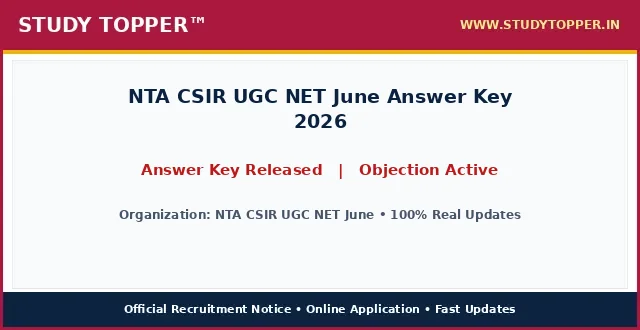
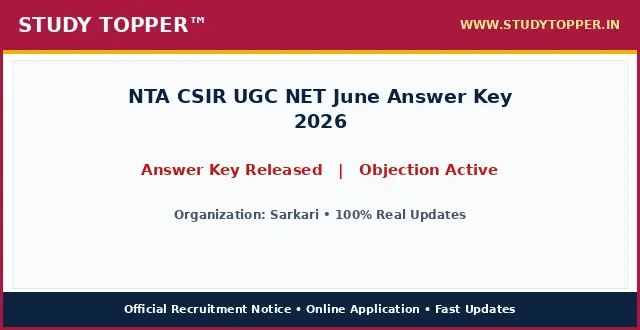
chore(lifecycle): daily auto-sort vacancies and update active dates

Changed region(s): [[0.1875, 0.6364, 0.8125, 0.6667]]

diff --git a/pages/nta-csir-ugc-net-june-2026.html b/pages/nta-csir-ugc-net-june-2026.html
@@ -987,12 +987,12 @@ ul.wp-block-latest-posts a:hover {
 <main class="site-main" id="main">
 <div class="gb-container gb-container-b39c368c">
 <h1 class="gb-headline gb-headline-e52a0102 gb-headline-text" style="font-size: 22px; font-weight: 700; color: #0000cd; text-align: left; margin: 8px 0 4px 0; line-height: 1.3; width: 100%; font-family: '-apple-system, BlinkMacSystemFont, 'Segoe UI', Roboto, 'Helvetica Neue', Arial, sans-serif', Times, serif, Hind, sans-serif;">NTA CSIR UGC NET June Answer Key 2026</h1>
-<div class="gb-container gb-container-659bd175"><p style="color: #cd0808; font-weight: 700; font-size: 15px; margin: 2px 0 7px 0; text-align: left; font-family: '-apple-system, BlinkMacSystemFont, 'Segoe UI', Roboto, 'Helvetica Neue', Arial, sans-serif', Times, serif, Hind, sans-serif;">Post Date: August 21, 2026 07:49 PM</p></div>
-<p class="gb-headline gb-headline-550ae316 short_Details gb-headline-text" style="width: 100%; max-width: 100%; font-size: 16.8px; line-height: 1.55; color: #000000; text-align: justify; text-justify: inter-word; margin: 8px 0 14px 0; display: block; font-family: '-apple-system, BlinkMacSystemFont, 'Segoe UI', Roboto, 'Helvetica Neue', Arial, sans-serif', Times, serif, Hind, sans-serif;"><strong style="color: #0000cd;">NTA CSIR UGC NET June</strong> has officially published the provisional and final <strong style="color: #cd0808;">NTA CSIR UGC NET June Answer Key 2026</strong> along with master question paper booklets. Examinees who appeared in the examination can verify their recorded responses against the official key solutions. The board has activated an online objection window allowing candidates to submit challenges with authentic documentary proof within the deadline. Review question series carefully and compute estimated test scores using the official marking scheme.</p>
+<div class="gb-container gb-container-659bd175"><p style="color: #cd0808; font-weight: 700; font-size: 15px; margin: 2px 0 7px 0; text-align: left; font-family: '-apple-system, BlinkMacSystemFont, 'Segoe UI', Roboto, 'Helvetica Neue', Arial, sans-serif', Times, serif, Hind, sans-serif;">Post Date: August 22, 2026 11:53 AM</p></div>
+<p class="gb-headline gb-headline-550ae316 short_Details gb-headline-text" style="width: 100%; max-width: 100%; font-size: 16.8px; line-height: 1.55; color: #000000; text-align: justify; text-justify: inter-word; margin: 8px 0 14px 0; display: block; font-family: '-apple-system, BlinkMacSystemFont, 'Segoe UI', Roboto, 'Helvetica Neue', Arial, sans-serif', Times, serif, Hind, sans-serif;"><strong style="color: #0000cd;">Sarkari</strong> has officially published the provisional and final <strong style="color: #cd0808;">NTA CSIR UGC NET June Answer Key 2026</strong> along with master question paper booklets. Examinees who appeared in the examination can verify their recorded responses against the official key solutions. The board has activated an online objection window allowing candidates to submit challenges with authentic documentary proof within the deadline. Review question series carefully and compute estimated test scores using the official marking scheme.</p>
 <div class="gb-container gb-container-9849916c"><div class="social-buttons-compact" style="display: flex; justify-content: flex-start; align-items: center; gap: 10px; margin: 10px 0 16px 0; width: 100%;"><a class="social-btn-compact wa" href="https://whatsapp.com/channel/0029Va9xyz" rel="noopener" style="background-color: #00d084; color: #ffffff; padding: 10px 18px; border-radius: 4px; text-decoration: none; font-weight: bold; font-size: 15.5px; display: inline-flex; align-items: center; justify-content: center; height: auto;" target="_blank">WhatsApp</a><a class="social-btn-compact tg" href="https://t.me/studytopperofficial" rel="noopener" style="background-color: #0088cc; color: #ffffff; padding: 10px 18px; border-radius: 4px; text-decoration: none; font-weight: bold; font-size: 15.5px; display: inline-flex; align-items: center; justify-content: center; height: auto;" target="_blank">Telegram</a></div></div>
 <div class="gb-container gb-container-f58e6ca1" style="border: 2px solid #5b032f; border-radius: 4px; overflow: hidden; margin: 15px 0 20px 0; background-color: #ffffff; width: 100%; box-sizing: border-box;">
 <h2 class="gb-headline gb-headline-2ca5a791 gb-headline-text" style="font-size: 16px; font-weight: 700; text-align: center; color: #ef0303; line-height: 1.3; padding: 6px 4px; margin: 0; background: #ffffff; font-family: '-apple-system, BlinkMacSystemFont, 'Segoe UI', Roboto, 'Helvetica Neue', Arial, sans-serif', Times, serif, Hind, sans-serif;">NTA CSIR UGC NET June Answer Key 2026 &ndash; Latest Details &amp; Updates</h2>
-<h3 class="gb-headline gb-headline-7d5f86e8 gb-headline-text" style="font-size: 16px; font-weight: 600; text-align: center; color: #009703; line-height: 1.25; margin: 0; padding: 2px 4px 6px 4px; background: #ffffff; font-family: '-apple-system, BlinkMacSystemFont, 'Segoe UI', Roboto, 'Helvetica Neue', Arial, sans-serif', Times, serif, Hind, sans-serif;">NTA CSIR UGC NET June : Details &amp; Summary</h3>
+<h3 class="gb-headline gb-headline-7d5f86e8 gb-headline-text" style="font-size: 16px; font-weight: 600; text-align: center; color: #009703; line-height: 1.25; margin: 0; padding: 2px 4px 6px 4px; background: #ffffff; font-family: '-apple-system, BlinkMacSystemFont, 'Segoe UI', Roboto, 'Helvetica Neue', Arial, sans-serif', Times, serif, Hind, sans-serif;">Sarkari : Details &amp; Summary</h3>
 <p class="gb-headline gb-headline-79adf169 gb-headline-text" style="margin: 0 0 6px 0; font-family: '-apple-system, BlinkMacSystemFont, 'Segoe UI', Roboto, 'Helvetica Neue', Arial, sans-serif', Times, serif, Hind, sans-serif; text-align: center; font-size: 18px; font-weight: 700;"><a href="/" style="color: #0000ff; text-decoration: underline;">StudyTopper.in</a></p>
 
 <style id="st-post-boxes-responsive-css">
@@ -1025,7 +1025,7 @@ ul.wp-block-latest-posts a:hover {
     <div style="background-color: #5b032f; color: #ffffff; padding: 8px 10px; font-size: 20px; font-weight: 700; text-align: center; font-family: '-apple-system, BlinkMacSystemFont, 'Segoe UI', Roboto, 'Helvetica Neue', Arial, sans-serif', Times, serif, Hind, sans-serif;">Answer Key &amp; Objection Dates</div>
     <div style="padding: 12px 14px; background-color: #ffffff;">
       <ul style="padding-left: 20px; margin: 0; list-style-type: disc; text-align: left; font-size: 14pt; line-height: 1.6; font-family: '-apple-system, BlinkMacSystemFont, 'Segoe UI', Roboto, 'Helvetica Neue', Arial, sans-serif', Times, serif, Hind, sans-serif;">
-        <li><span style="font-size: 14pt;">Apply Online start Date : <strong>27 May 2026</strong></span></li><li><span style="font-size: 14pt;">Apply Online Last Date : <span style="color: #ff0000;"><strong>19 June 2026</strong></span></span></li><li><span style="font-size: 14pt;">Pay Exam Fees Last Date : <span style="color: #ff0000;"><strong>20 June 2026</strong></span></span></li><li><span style="font-size: 14pt;">Correction Date : <strong>22 – 23 June 2025</strong></span></li><li><span style="font-size: 14pt;">Exam Date : <strong>17 – 18 July 2026</strong></span></li><li><span style="font-size: 14pt;">Admit Card Available : <strong>13 July 2026</strong></span></li>
+        
       </ul>
     </div>
   </div>
@@ -1034,7 +1034,7 @@ ul.wp-block-latest-posts a:hover {
     <div style="background-color: #5b032f; color: #ffffff; padding: 8px 10px; font-size: 20px; font-weight: 700; text-align: center; font-family: '-apple-system, BlinkMacSystemFont, 'Segoe UI', Roboto, 'Helvetica Neue', Arial, sans-serif', Times, serif, Hind, sans-serif;">Objection / Challenge Fee</div>
     <div style="padding: 12px 14px; background-color: #ffffff;">
       <ul style="padding-left: 20px; margin: 0; list-style-type: disc; text-align: left; font-size: 14pt; line-height: 1.6; font-family: '-apple-system, BlinkMacSystemFont, 'Segoe UI', Roboto, 'Helvetica Neue', Arial, sans-serif', Times, serif, Hind, sans-serif;">
-        <li><span style="font-size: 14pt;">For General : <strong>₹ 1150/-</strong></span></li><li><span style="font-size: 14pt;">For OBC, EWS : <strong>₹ 600/-</strong></span></li><li><span style="font-size: 14pt;">For SC/ ST/PH : <strong>₹ 325/-</strong></span></li>
+        <li><span style="font-size: 14pt;">Bihar Police BPSSC Sub Inspector SI Prohibition Result 2026 Advt. No. : <strong>03/2026</strong></span></li><li><span style="font-size: 14pt;">UP Scholarship Online Form 2026 : <strong>2027</strong></span></li>
       </ul>
       <div style="margin-top: 10px; font-size: 14pt; line-height: 1.5; color: #000000; border-top: 1px dashed #ccc; padding-top: 8px; font-family: '-apple-system, BlinkMacSystemFont, 'Segoe UI', Roboto, 'Helvetica Neue', Arial, sans-serif', Times, serif, Hind, sans-serif;">
         <strong>Mode of Payment / Access:</strong> Online via Net Banking, Debit Card, Credit Card, UPI or Free Candidate Portal.
@@ -1047,10 +1047,10 @@ ul.wp-block-latest-posts a:hover {
 <div class="st-grid-row" style="display: flex; flex-wrap: wrap; width: 100%; border-top: 2px solid #5b032f; margin: 0; padding: 0; box-sizing: border-box;">
   <!-- Left Col: Age Limits -->
   <div class="st-col-half st-col-border-right" style="box-sizing: border-box; vertical-align: top;">
-    <div style="background-color: #046132; color: #ffffff; padding: 8px 10px; font-size: 17px; font-weight: 700; text-align: center; font-family: '-apple-system, BlinkMacSystemFont, 'Segoe UI', Roboto, 'Helvetica Neue', Arial, sans-serif', Times, serif, Hind, sans-serif;">NTA CSIR UGC NET June : Age Limits As On 01 August 2026</div>
+    <div style="background-color: #046132; color: #ffffff; padding: 8px 10px; font-size: 17px; font-weight: 700; text-align: center; font-family: '-apple-system, BlinkMacSystemFont, 'Segoe UI', Roboto, 'Helvetica Neue', Arial, sans-serif', Times, serif, Hind, sans-serif;">Sarkari : Age Limits As On 01 August 2026</div>
     <div style="padding: 12px 14px; background-color: #ffffff;">
       <ul style="padding-left: 20px; margin: 0; list-style-type: disc; text-align: left; font-size: 14pt; line-height: 1.6; font-family: '-apple-system, BlinkMacSystemFont, 'Segoe UI', Roboto, 'Helvetica Neue', Arial, sans-serif', Times, serif, Hind, sans-serif;">
-        <li><span style="font-size: 14pt;">Minimum Age : <strong>18 Years</strong></span></li><li><span style="font-size: 14pt;">Maximum Age : <strong>40 Years</strong></span></li><li><span style="font-size: 14pt;">Age Calculated As On : <strong>01 August 2026</strong></span></li><li><span style="font-size: 14pt;">Age Relaxation : <strong>Extra as per official recruitment rules</strong></span></li>
+        
       </ul>
     </div>
   </div>
@@ -1058,7 +1058,7 @@ ul.wp-block-latest-posts a:hover {
   <div class="st-col-half" style="box-sizing: border-box; vertical-align: top;">
     <div style="background-color: #f53c00; color: #ffffff; padding: 8px 10px; font-size: 20px; font-weight: 700; text-align: center; font-family: '-apple-system, BlinkMacSystemFont, 'Segoe UI', Roboto, 'Helvetica Neue', Arial, sans-serif', Times, serif, Hind, sans-serif;">Answer Key Status</div>
     <div style="padding: 24px 10px; background-color: #ffffff; text-align: center;">
-      <span style="font-size: 28px; font-weight: 800; color: #000000; font-family: '-apple-system, BlinkMacSystemFont, 'Segoe UI', Roboto, 'Helvetica Neue', Arial, sans-serif', Times, serif, Hind, sans-serif;">2482 Posts</span>
+      <span style="font-size: 28px; font-weight: 800; color: #000000; font-family: '-apple-system, BlinkMacSystemFont, 'Segoe UI', Roboto, 'Helvetica Neue', Arial, sans-serif', Times, serif, Hind, sans-serif;">545 Post</span>
     </div>
   </div>
 </div>
@@ -1070,19 +1070,7 @@ ul.wp-block-latest-posts a:hover {
 <div class="gb-container gb-container-ec1f6e4c">
 <h2 class="gb-headline gb-headline-c7683bda gb-headline-text" style="font-size: 24px; font-weight: 800; text-align: center; color: #ef0303; line-height: 1.35; margin: 20px 0 12px 0; padding: 6px 4px; font-family: '-apple-system, BlinkMacSystemFont, 'Segoe UI', Roboto, 'Helvetica Neue', Arial, sans-serif', Times, serif, Hind, sans-serif;">NTA CSIR UGC NET June Answer Key 2026 : Key Overview &amp; Matrix</h2>
 <div class="gb-headline gb-headline-60ccea19 gb-headline-text">
-<table style="border-collapse: collapse; width: 100%; height: 150px;">
-<tbody>
-<tr style="height: 25px;">
-<td colspan="2" style="width: 50%; text-align: center; height: 25px;"><span style="background-color: #000080; color: #ffffff; font-size: 14pt;"><strong> NTA CSIR UGC NET June : Answer Key &amp; Objection Window Details </strong></span></td>
-</tr>
-<tr style="height: 25px;">
-<td style="width: 50%; height: 25px; text-align: center;"><span style="font-size: 14pt;"><strong>Category / Particulars</strong></span></td>
-<td style="width: 50%; height: 25px; text-align: center;"><span style="font-size: 14pt;"><strong>Count / Status</strong></span></td>
-</tr>
-<tr><td style="text-align: center;">Key Status</td><td style="text-align: center; font-weight: normal; color: inherit;">Official Answer Key Released</td></tr><tr><td style="text-align: center;">Objection Window</td><td style="text-align: center; font-weight: normal; color: inherit;">Active Online</td></tr><tr><td style="text-align: center;">Total Vacancies</td><td style="text-align: center; font-weight: bold; color: #ff0000;">2482 Posts</td></tr>
-</tbody>
-</table>
-<p>&nbsp;</p>
+
 <table style="border-collapse: collapse; width: 100%;">
 <tbody>
 <tr>
@@ -1091,12 +1079,13 @@ ul.wp-block-latest-posts a:hover {
 <th style="background-color: #f53c00; color: #ffffff; padding: 6px 10px; text-align: center; border: 1px solid #d35400; font-size: 15px; font-weight: 700; font-family: '-apple-system, BlinkMacSystemFont, 'Segoe UI', Roboto, 'Helvetica Neue', Arial, sans-serif', Times, serif, Hind, sans-serif;">Eligibility Criteria / Key Series</th>
 </tr>
 <tr>
-<td style="padding: 8px; border: 1px solid #ddd; font-weight: bold;">UGC CSIR NET June Examination 2026</td>
-<td style="padding: 8px; border: 1px solid #ddd; text-align: center; font-weight: bold;">2482 Posts</td>
-<td style="padding: 8px; border: 1px solid #ddd;">CSIR UGC NET 2026, candidates with an M.Sc. or equivalent degree need 55% marks (50% for SC/ST). Those with B.E./B.Tech, B.Pharma, MBBS, or integrated courses are also eligible.</td>
+<td style="padding: 8px; border: 1px solid #ddd; font-weight: bold;">Sarkari Recruitment</td>
+<td style="padding: 8px; border: 1px solid #ddd; text-align: center; font-weight: bold;">545 Post</td>
+<td style="padding: 8px; border: 1px solid #ddd;">Please refer to the official notification linked below for detailed educational qualifications.</td>
 </tr>
 </tbody>
 </table>
+<p>&nbsp;</p>
 <p>&nbsp;</p>
 
 
@@ -1104,10 +1093,10 @@ ul.wp-block-latest-posts a:hover {
 <table style="border-collapse: collapse; width: 100%;">
 <tbody>
 <tr>
-<td style="width: 100%; text-align: center;"><span style="background-color: #000080; color: #ffffff; font-size: 14pt; font-weight: bold; display: block; padding: 6px;"> How to Download NTA CSIR UGC NET June Answer Key &amp; Submit Online Objection </span></td>
+<td style="width: 100%; text-align: center;"><span style="background-color: #000080; color: #ffffff; font-size: 14pt; font-weight: bold; display: block; padding: 6px;"> How to Download Sarkari Answer Key &amp; Submit Online Objection </span></td>
 </tr>
 <tr>
-<td style="width: 100%;"><ol style="margin:0; padding-left:18px; text-align: left !important; list-style-position: outside !important"><li style="margin-bottom:6px; text-align: left !important;">Click on Download Answer Key link in Useful Important Links table below.</li><li style="margin-bottom:6px; text-align: left !important;">Official master answer key PDF booklet will open on screen.</li><li style="margin-bottom:6px; text-align: left !important;">Compare marked responses against official correct options.</li><li style="margin-bottom:6px; text-align: left !important;">Compute tentative exam scores according to marking scheme and negative marking rules.</li><li style="margin-bottom:6px; text-align: left !important;">If any answer is incorrect, click on Online Objection Link to submit challenge before deadline.</li></ol></td>
+<td style="width: 100%;"><ol style="margin:0; padding-left:18px; text-align: left !important; list-style-position: outside !important"><li style="margin-bottom:6px; text-align: left !important;">Scroll down to the 'Important Links' section on this page.</li><li style="margin-bottom:6px; text-align: left !important;">Click on the direct link to download/check your status.</li><li style="margin-bottom:6px; text-align: left !important;">Enter your required login credentials such as Registration Number, Roll Number, or Date of Birth.</li><li style="margin-bottom:6px; text-align: left !important;">Click on submit to view your status.</li><li style="margin-bottom:6px; text-align: left !important;">Download and take a printout for future reference.</li></ol></td>
 </tr>
 </tbody>
 </table>
@@ -1115,12 +1104,12 @@ ul.wp-block-latest-posts a:hover {
 <table style="border-collapse: collapse; width: 100%;">
 <tbody>
 <tr>
-<td style="width: 100%; text-align: center;"><span style="background-color: #000080; color: #ffffff; font-size: 14pt;"><strong><span style="color: #ffffff;"> NTA CSIR UGC NET June Recruitment 2026 : Mode Of Selection </span></strong></span></td>
+<td style="width: 100%; text-align: center;"><span style="background-color: #000080; color: #ffffff; font-size: 14pt;"><strong><span style="color: #ffffff;"> Sarkari Recruitment 2026 : Mode Of Selection </span></strong></span></td>
 </tr>
 <tr>
 <td style="width: 100%;">
 <ul class="wp-block-list" style="text-align: left !important; list-style-position: outside !important">
-<li style="text-align: left !important;"><span style="font-size: 14pt;"><strong>Computer Based Examination (CBE) / Evaluation</strong></span></li><li style="text-align: left !important;"><span style="font-size: 14pt;"><strong>Document Verification</strong></span></li><li style="text-align: left !important;"><span style="font-size: 14pt;"><strong>Final Merit Allotment</strong></span></li>
+<li style="text-align: left !important;"><span style="font-size: 14pt;"><strong>Computer Based Examination (CBE) / Written Exam</strong></span></li><li style="text-align: left !important;"><span style="font-size: 14pt;"><strong>Document Verification</strong></span></li><li style="text-align: left !important;"><span style="font-size: 14pt;"><strong>Medical Examination</strong></span></li>
 </ul>
 </td>
 </tr>
@@ -1155,82 +1144,26 @@ ul.wp-block-latest-posts a:hover {
 
 <tr style="border-bottom: 1px solid #000000; background-color: #fff37a;">
 <td style="width: 50%; padding: 14px 16px; border-right: 1px solid #000000; text-align: center;">
-<span style="font-size: 19px; font-weight: 800; color: #000000; font-family: '-apple-system, BlinkMacSystemFont, 'Segoe UI', Roboto, 'Helvetica Neue', Arial, sans-serif', Times, serif, Hind, sans-serif;">Download Admit Card</span>
+<span style="font-size: 19px; font-weight: 800; color: #000000; font-family: '-apple-system, BlinkMacSystemFont, 'Segoe UI', Roboto, 'Helvetica Neue', Arial, sans-serif', Times, serif, Hind, sans-serif;">Download Answer Key / Objection Link</span>
 </td>
 <td style="width: 50%; padding: 14px 16px; text-align: center;">
-<span style="font-size: 20px; font-weight: 800; font-family: '-apple-system, BlinkMacSystemFont, 'Segoe UI', Roboto, 'Helvetica Neue', Arial, sans-serif', Times, serif, Hind, sans-serif;"><a href="https://examinationservices.nic.in/AdmitCardService/Admitcard/Login?enc=FzCM1cz3k8ohC+69JQLEE0a8bYjxrP5YMYMZP4fujh8=" aria-label="Click Here for Download Admit Card - NTA CSIR UGC NET June Answer Key 2026" rel="noopener noreferrer" style="color: #0000ef; font-weight: 800; text-decoration: none;" target="_blank">Click Here</a></span>
+<span style="font-size: 20px; font-weight: 800; font-family: '-apple-system, BlinkMacSystemFont, 'Segoe UI', Roboto, 'Helvetica Neue', Arial, sans-serif', Times, serif, Hind, sans-serif;"><a href="" aria-label="Click Here for Download Answer Key / Objection Link - NTA CSIR UGC NET June Answer Key 2026" rel="noopener noreferrer" style="color: #0000ef; font-weight: 800; text-decoration: none;" target="_blank">Click Here</a></span>
 </td>
 </tr>
 <tr style="border-bottom: 1px solid #000000; background-color: #fff37a;">
-<td style="width: 50%; padding: 14px 16px; border-right: 1px solid #000000; text-align: center;">
-<span style="font-size: 19px; font-weight: 800; color: #000000; font-family: '-apple-system, BlinkMacSystemFont, 'Segoe UI', Roboto, 'Helvetica Neue', Arial, sans-serif', Times, serif, Hind, sans-serif;">Check Admit Card Notice</span>
-</td>
-<td style="width: 50%; padding: 14px 16px; text-align: center;">
-<span style="font-size: 20px; font-weight: 800; font-family: '-apple-system, BlinkMacSystemFont, 'Segoe UI', Roboto, 'Helvetica Neue', Arial, sans-serif', Times, serif, Hind, sans-serif;"><a href="https://cdnbbsr.s3waas.gov.in/s3efdf562ce2fb0ad460fd8e9d33e57f57/uploads/2026/07/20260713839526776.pdf" aria-label="Click Here for Check Admit Card Notice - NTA CSIR UGC NET June Answer Key 2026" rel="noopener noreferrer" style="color: #0000ef; font-weight: 800; text-decoration: none;" target="_blank">Click Here</a></span>
-</td>
-</tr>
-<tr style="border-bottom: 1px solid #000000; background-color: #fff37a;">
-<td style="width: 50%; padding: 14px 16px; border-right: 1px solid #000000; text-align: center;">
-<span style="font-size: 19px; font-weight: 800; color: #000000; font-family: '-apple-system, BlinkMacSystemFont, 'Segoe UI', Roboto, 'Helvetica Neue', Arial, sans-serif', Times, serif, Hind, sans-serif;">Download Exam City Details</span>
-</td>
-<td style="width: 50%; padding: 14px 16px; text-align: center;">
-<span style="font-size: 20px; font-weight: 800; font-family: '-apple-system, BlinkMacSystemFont, 'Segoe UI', Roboto, 'Helvetica Neue', Arial, sans-serif', Times, serif, Hind, sans-serif;"><a href="https://examinationservices.nic.in/AdmitCard/AuthForAdvanceCity/Login?enc=DJ8reokIYhe/x0Hlb6GKa2eP3bwuWfUYlE5wsMgdC5o=" aria-label="Click Here for Download Exam City Details - NTA CSIR UGC NET June Answer Key 2026" rel="noopener noreferrer" style="color: #0000ef; font-weight: 800; text-decoration: none;" target="_blank">Click Here</a></span>
-</td>
-</tr>
-<tr style="border-bottom: 1px solid #000000; background-color: #fff37a;">
-<td style="width: 50%; padding: 14px 16px; border-right: 1px solid #000000; text-align: center;">
-<span style="font-size: 19px; font-weight: 800; color: #000000; font-family: '-apple-system, BlinkMacSystemFont, 'Segoe UI', Roboto, 'Helvetica Neue', Arial, sans-serif', Times, serif, Hind, sans-serif;">Check Exam City Notice</span>
-</td>
-<td style="width: 50%; padding: 14px 16px; text-align: center;">
-<span style="font-size: 20px; font-weight: 800; font-family: '-apple-system, BlinkMacSystemFont, 'Segoe UI', Roboto, 'Helvetica Neue', Arial, sans-serif', Times, serif, Hind, sans-serif;"><a href="https://cdnbbsr.s3waas.gov.in/s3efdf562ce2fb0ad460fd8e9d33e57f57/uploads/2026/07/202607081881713495.pdf" aria-label="Click Here for Check Exam City Notice - NTA CSIR UGC NET June Answer Key 2026" rel="noopener noreferrer" style="color: #0000ef; font-weight: 800; text-decoration: none;" target="_blank">Click Here</a></span>
-</td>
-</tr>
-<tr style="border-bottom: 1px solid #000000; background-color: #fff37a;">
-<td style="width: 50%; padding: 14px 16px; border-right: 1px solid #000000; text-align: center;">
-<span style="font-size: 19px; font-weight: 800; color: #000000; font-family: '-apple-system, BlinkMacSystemFont, 'Segoe UI', Roboto, 'Helvetica Neue', Arial, sans-serif', Times, serif, Hind, sans-serif;">Online Correction Link</span>
-</td>
-<td style="width: 50%; padding: 14px 16px; text-align: center;">
-<span style="font-size: 20px; font-weight: 800; font-family: '-apple-system, BlinkMacSystemFont, 'Segoe UI', Roboto, 'Helvetica Neue', Arial, sans-serif', Times, serif, Hind, sans-serif;"><a href="https://examinationservices.nic.in/ExamSys26Part2/Root/CandidateLogin.aspx?enc=Ei4cajBkK1gZSfgr53ImFTqGsyg38PlGNCGSuvSzsiVbovgbG6pVEHea7DNFe38E" aria-label="Click Here for Online Correction Link - NTA CSIR UGC NET June Answer Key 2026" rel="noopener noreferrer" style="color: #0000ef; font-weight: 800; text-decoration: none;" target="_blank">Click Here</a></span>
-</td>
-</tr>
-<tr style="border-bottom: 1px solid #000000; background-color: #fff37a;">
-<td style="width: 50%; padding: 14px 16px; border-right: 1px solid #000000; text-align: center;">
-<span style="font-size: 19px; font-weight: 800; color: #000000; font-family: '-apple-system, BlinkMacSystemFont, 'Segoe UI', Roboto, 'Helvetica Neue', Arial, sans-serif', Times, serif, Hind, sans-serif;">Check Correction Notice</span>
-</td>
-<td style="width: 50%; padding: 14px 16px; text-align: center;">
-<span style="font-size: 20px; font-weight: 800; font-family: '-apple-system, BlinkMacSystemFont, 'Segoe UI', Roboto, 'Helvetica Neue', Arial, sans-serif', Times, serif, Hind, sans-serif;"><a href="https://cdnbbsr.s3waas.gov.in/s3efdf562ce2fb0ad460fd8e9d33e57f57/uploads/2026/06/2026062267044325.pdf" aria-label="Click Here for Check Correction Notice - NTA CSIR UGC NET June Answer Key 2026" rel="noopener noreferrer" style="color: #0000ef; font-weight: 800; text-decoration: none;" target="_blank">Click Here</a></span>
-</td>
-</tr>
-<tr style="border-bottom: 1px solid #000000; background-color: #fff37a;">
-<td style="width: 50%; padding: 14px 16px; border-right: 1px solid #000000; text-align: center;">
-<span style="font-size: 19px; font-weight: 800; color: #000000; font-family: '-apple-system, BlinkMacSystemFont, 'Segoe UI', Roboto, 'Helvetica Neue', Arial, sans-serif', Times, serif, Hind, sans-serif;">Apply Online Link</span>
-</td>
-<td style="width: 50%; padding: 14px 16px; text-align: center;">
-<span style="font-size: 20px; font-weight: 800; font-family: '-apple-system, BlinkMacSystemFont, 'Segoe UI', Roboto, 'Helvetica Neue', Arial, sans-serif', Times, serif, Hind, sans-serif;"><a href="https://examinationservices.nic.in/ExamSys26Part2/Root/Home.aspx?enc=Ei4cajBkK1gZSfgr53ImFTqGsyg38PlGNCGSuvSzsiVbovgbG6pVEHea7DNFe38E" aria-label="Click Here for Apply Online Link - NTA CSIR UGC NET June Answer Key 2026" rel="noopener noreferrer" style="color: #0000ef; font-weight: 800; text-decoration: none;" target="_blank">Click Here</a></span>
-</td>
-</tr>
-<tr style="border-bottom: 1px solid #000000; background-color: #fff37a;">
-<td style="width: 50%; padding: 14px 16px; border-right: 1px solid #000000; text-align: center;">
-<span style="font-size: 19px; font-weight: 800; color: #000000; font-family: '-apple-system, BlinkMacSystemFont, 'Segoe UI', Roboto, 'Helvetica Neue', Arial, sans-serif', Times, serif, Hind, sans-serif;">Download Official Notification</span>
-</td>
-<td style="width: 50%; padding: 14px 16px; text-align: center;">
-<span style="font-size: 20px; font-weight: 800; font-family: '-apple-system, BlinkMacSystemFont, 'Segoe UI', Roboto, 'Helvetica Neue', Arial, sans-serif', Times, serif, Hind, sans-serif;"><a href="https://cdnbbsr.s3waas.gov.in/s3efdf562ce2fb0ad460fd8e9d33e57f57/uploads/2026/05/202605271224945892.pdf" aria-label="Click Here for Download Official Notification - NTA CSIR UGC NET June Answer Key 2026" rel="noopener noreferrer" style="color: #0000ef; font-weight: 800; text-decoration: none;" target="_blank">Click Here</a></span>
-</td>
-</tr>
-<tr style="border-bottom: 1px solid #000000; background-color: #fff37a;">
-<td style="width: 50%; padding: 14px 16px; border-right: 1px solid #000000; text-align: center;">
-<span style="font-size: 19px; font-weight: 800; color: #000000; font-family: '-apple-system, BlinkMacSystemFont, 'Segoe UI', Roboto, 'Helvetica Neue', Arial, sans-serif', Times, serif, Hind, sans-serif;">NTA Official Website</span>
-</td>
-<td style="width: 50%; padding: 14px 16px; text-align: center;">
-<span style="font-size: 20px; font-weight: 800; font-family: '-apple-system, BlinkMacSystemFont, 'Segoe UI', Roboto, 'Helvetica Neue', Arial, sans-serif', Times, serif, Hind, sans-serif;"><a href="https://csirnet.nta.ac.in/" aria-label="Click Here for NTA Official Website - NTA CSIR UGC NET June Answer Key 2026" rel="noopener noreferrer" style="color: #0000ef; font-weight: 800; text-decoration: none;" target="_blank">Click Here</a></span>
-</td>
-</tr>
-<tr style=" background-color: #fff37a;">
 <td style="width: 50%; padding: 14px 16px; border-right: 1px solid #000000; text-align: center;">
 <span style="font-size: 19px; font-weight: 800; color: #000000; font-family: '-apple-system, BlinkMacSystemFont, 'Segoe UI', Roboto, 'Helvetica Neue', Arial, sans-serif', Times, serif, Hind, sans-serif;">Check Sarkari Result</span>
 </td>
 <td style="width: 50%; padding: 14px 16px; text-align: center;">
 <span style="font-size: 20px; font-weight: 800; font-family: '-apple-system, BlinkMacSystemFont, 'Segoe UI', Roboto, 'Helvetica Neue', Arial, sans-serif', Times, serif, Hind, sans-serif;"><a href="/" aria-label="Click Here for Check Sarkari Result - NTA CSIR UGC NET June Answer Key 2026" rel="noopener noreferrer" style="color: #0000ef; font-weight: 800; text-decoration: none;" >Click Here</a></span>
+</td>
+</tr>
+<tr style=" background-color: #fff37a;">
+<td style="width: 50%; padding: 14px 16px; border-right: 1px solid #000000; text-align: center;">
+<span style="font-size: 19px; font-weight: 800; color: #000000; font-family: '-apple-system, BlinkMacSystemFont, 'Segoe UI', Roboto, 'Helvetica Neue', Arial, sans-serif', Times, serif, Hind, sans-serif;">Sarkari Website</span>
+</td>
+<td style="width: 50%; padding: 14px 16px; text-align: center;">
+<span style="font-size: 20px; font-weight: 800; font-family: '-apple-system, BlinkMacSystemFont, 'Segoe UI', Roboto, 'Helvetica Neue', Arial, sans-serif', Times, serif, Hind, sans-serif;"><a href="" aria-label="Click Here for Sarkari Website - NTA CSIR UGC NET June Answer Key 2026" rel="noopener noreferrer" style="color: #0000ef; font-weight: 800; text-decoration: none;" target="_blank">Click Here</a></span>
 </td>
 </tr>
 </tbody>
@@ -1243,7 +1176,7 @@ ul.wp-block-latest-posts a:hover {
   </h3>
   <div style="font-size: 14.5px; line-height: 1.65; color: #222222;">
     <p style="margin: 0 0 4px 0;"><strong style="color: #000080;">Q1. How to download NTA CSIR UGC NET June Answer Key 2026?</strong></p>
-<p style="margin: 0 0 16px 0; color: #333333; line-height: 1.6;">Ans. Candidates can download the answer key PDF directly from the links table above or through the official NTA CSIR UGC NET June portal.</p><p style="margin: 0 0 4px 0;"><strong style="color: #000080;">Q2. Can I challenge / raise objections on NTA CSIR UGC NET June Answer Key 2026?</strong></p>
+<p style="margin: 0 0 16px 0; color: #333333; line-height: 1.6;">Ans. Candidates can download the answer key PDF directly from the links table above or through the official Sarkari portal.</p><p style="margin: 0 0 4px 0;"><strong style="color: #000080;">Q2. Can I challenge / raise objections on NTA CSIR UGC NET June Answer Key 2026?</strong></p>
 <p style="margin: 0 0 16px 0; color: #333333; line-height: 1.6;">Ans. Yes, candidates can submit online challenges against incorrect answer keys during the active objection window by paying the requisite challenge fee.</p><p style="margin: 0 0 4px 0;"><strong style="color: #000080;">Q3. What is the marking scheme for NTA CSIR UGC NET June Answer Key 2026?</strong></p>
 <p style="margin: 0 0 16px 0; color: #333333; line-height: 1.6;">Ans. Scores are calculated according to the official examination pattern (+1 or prescribed mark for correct answers, negative marking if applicable).</p><p style="margin: 0 0 4px 0;"><strong style="color: #000080;">Q4. When will the final answer key be released?</strong></p>
 <p style="margin: 0 0 16px 0; color: #333333; line-height: 1.6;">Ans. The final answer key is released after reviewing all candidate objections submitted during the challenge period.</p><p style="margin: 0 0 4px 0;"><strong style="color: #000080;">Q5. Where can I check the objection challenge link?</strong></p>

diff --git a/index.html b/index.html
@@ -1622,7 +1622,7 @@ ul.wp-block-latest-posts a:hover {
 </div></div></div>
 <div class="gb-grid-column gb-grid-column-d19ddc59"><div class="gb-container gb-container-d19ddc59"><div class="gb-inside-container">
 <p class="gb-headline gb-headline-db2d7e30 gb-headline-text" style="background-color:#ab183d !important; color:#ffffff !important; text-align:center; font-weight:700; padding:6px 0;">Answer Key</p>
-<ul class="wp-block-latest-posts__list 6colm_box wp-block-latest-posts"><li><a class="wp-block-latest-posts__post-title" href="/nta-icar-aieea-pg-and-phd-2026/">NTA ICAR AIEEA PG Ph.D Answer Key 2026</a></li><li><a class="wp-block-latest-posts__post-title" href="/nta-csir-ugc-net-june-2026/">NTA CSIR UGC NET June Answer Key 2026</a></li><li><a class="wp-block-latest-posts__post-title" href="/dsssb-various-post-2026/">Delhi DSSSB July Answer Key 2026</a></li></ul>
+<ul class="wp-block-latest-posts__list 6colm_box wp-block-latest-posts"><li><a class="wp-block-latest-posts__post-title" href="/nta-csir-ugc-net-june-2026/">NTA CSIR UGC NET June Answer Key 2026</a></li><li><a class="wp-block-latest-posts__post-title" href="/nta-icar-aieea-pg-and-phd-2026/">NTA ICAR AIEEA PG Ph.D Answer Key 2026</a></li><li><a class="wp-block-latest-posts__post-title" href="/dsssb-various-post-2026/">Delhi DSSSB July Answer Key 2026</a></li></ul>
 <div class="wp-block-buttons is-content-justification-right is-layout-flex wp-container-core-buttons-is-layout-89b4c9e9 wp-block-buttons-is-layout-flex">
 <div class="wp-block-button"><a class="wp-block-button__link has-base-color has-accent-2-background-color has-text-color has-background has-link-color has-text-align-right wp-element-button" href="/answer-key/" rel="noreferrer noopener" target="_blank"><strong>View More</strong></a></div>
 </div>

diff --git a/pages/index.html b/pages/index.html
@@ -1622,7 +1622,7 @@ ul.wp-block-latest-posts a:hover {
 </div></div></div>
 <div class="gb-grid-column gb-grid-column-d19ddc59"><div class="gb-container gb-container-d19ddc59"><div class="gb-inside-container">
 <p class="gb-headline gb-headline-db2d7e30 gb-headline-text" style="background-color:#ab183d !important; color:#ffffff !important; text-align:center; font-weight:700; padding:6px 0;">Answer Key</p>
-<ul class="wp-block-latest-posts__list 6colm_box wp-block-latest-posts"><li><a class="wp-block-latest-posts__post-title" href="/nta-icar-aieea-pg-and-phd-2026/">NTA ICAR AIEEA PG Ph.D Answer Key 2026</a></li><li><a class="wp-block-latest-posts__post-title" href="/nta-csir-ugc-net-june-2026/">NTA CSIR UGC NET June Answer Key 2026</a></li><li><a class="wp-block-latest-posts__post-title" href="/dsssb-various-post-2026/">Delhi DSSSB July Answer Key 2026</a></li></ul>
+<ul class="wp-block-latest-posts__list 6colm_box wp-block-latest-posts"><li><a class="wp-block-latest-posts__post-title" href="/nta-csir-ugc-net-june-2026/">NTA CSIR UGC NET June Answer Key 2026</a></li><li><a class="wp-block-latest-posts__post-title" href="/nta-icar-aieea-pg-and-phd-2026/">NTA ICAR AIEEA PG Ph.D Answer Key 2026</a></li><li><a class="wp-block-latest-posts__post-title" href="/dsssb-various-post-2026/">Delhi DSSSB July Answer Key 2026</a></li></ul>
 <div class="wp-block-buttons is-content-justification-right is-layout-flex wp-container-core-buttons-is-layout-89b4c9e9 wp-block-buttons-is-layout-flex">
 <div class="wp-block-button"><a class="wp-block-button__link has-base-color has-accent-2-background-color has-text-color has-background has-link-color has-text-align-right wp-element-button" href="/answer-key/" rel="noreferrer noopener" target="_blank"><strong>View More</strong></a></div>
 </div>

diff --git a/original_index.html b/original_index.html
@@ -1085,7 +1085,7 @@ ul.wp-block-latest-posts a:hover {
 </div></div></div>
 <div class="gb-grid-column gb-grid-column-d19ddc59"><div class="gb-container gb-container-d19ddc59"><div class="gb-inside-container">
 <p class="gb-headline gb-headline-db2d7e30 gb-headline-text">Answer Key</p>
-<ul class="wp-block-latest-posts__list 6colm_box wp-block-latest-posts"><li><a class="wp-block-latest-posts__post-title" href="/nta-icar-aieea-pg-and-phd-2026/">NTA ICAR AIEEA PG Ph.D Answer Key 2026</a></li><li><a class="wp-block-latest-posts__post-title" href="/nta-csir-ugc-net-june-2026/">NTA CSIR UGC NET June Answer Key 2026</a></li><li><a class="wp-block-latest-posts__post-title" href="/dsssb-various-post-2026/">Delhi DSSSB July Answer Key 2026</a></li></ul>
+<ul class="wp-block-latest-posts__list 6colm_box wp-block-latest-posts"><li><a class="wp-block-latest-posts__post-title" href="/nta-csir-ugc-net-june-2026/">NTA CSIR UGC NET June Answer Key 2026</a></li><li><a class="wp-block-latest-posts__post-title" href="/nta-icar-aieea-pg-and-phd-2026/">NTA ICAR AIEEA PG Ph.D Answer Key 2026</a></li><li><a class="wp-block-latest-posts__post-title" href="/dsssb-various-post-2026/">Delhi DSSSB July Answer Key 2026</a></li></ul>
 <div class="wp-block-buttons is-content-justification-right is-layout-flex wp-container-core-buttons-is-layout-89b4c9e9 wp-block-buttons-is-layout-flex">
 <div class="wp-block-button"><a class="wp-block-button__link has-base-color has-accent-2-background-color has-text-color has-background has-link-color has-text-align-right wp-element-button" href="/answer-key/" rel="noreferrer noopener" target="_blank"><strong>View More</strong></a></div>
 </div>
